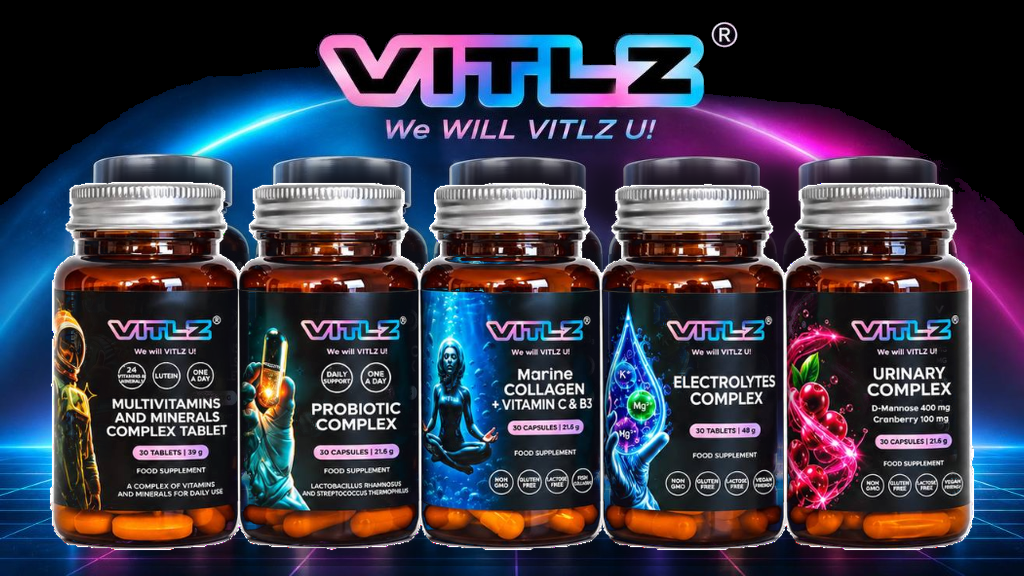
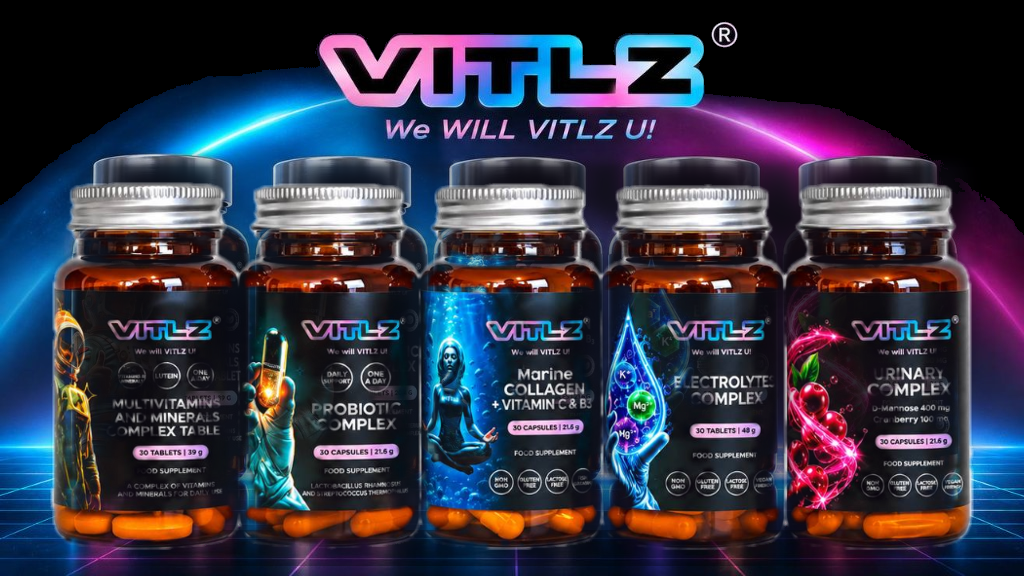
Refine hero composite: remove old caps and defringe new bottles.

diff --git a/index.html b/index.html
@@ -78,8 +78,8 @@
         <section id="home" class="hero-section retro-grid">
             <div class="hero-images will-animate">
                 <picture>
-                    <source srcset="images/hero-lineup.webp?v=20261117d" type="image/webp">
-                    <img src="images/hero-lineup.png?v=20261117d" alt="VITLZ formulas — We WILL VITLZ U!" class="hero-lineup" width="1024" height="576" loading="eager" />
+                    <source srcset="images/hero-lineup.webp?v=20261117e" type="image/webp">
+                    <img src="images/hero-lineup.png?v=20261117e" alt="VITLZ formulas — We WILL VITLZ U!" class="hero-lineup" width="1024" height="576" loading="eager" />
                 </picture>
             </div>
             <div class="container">
